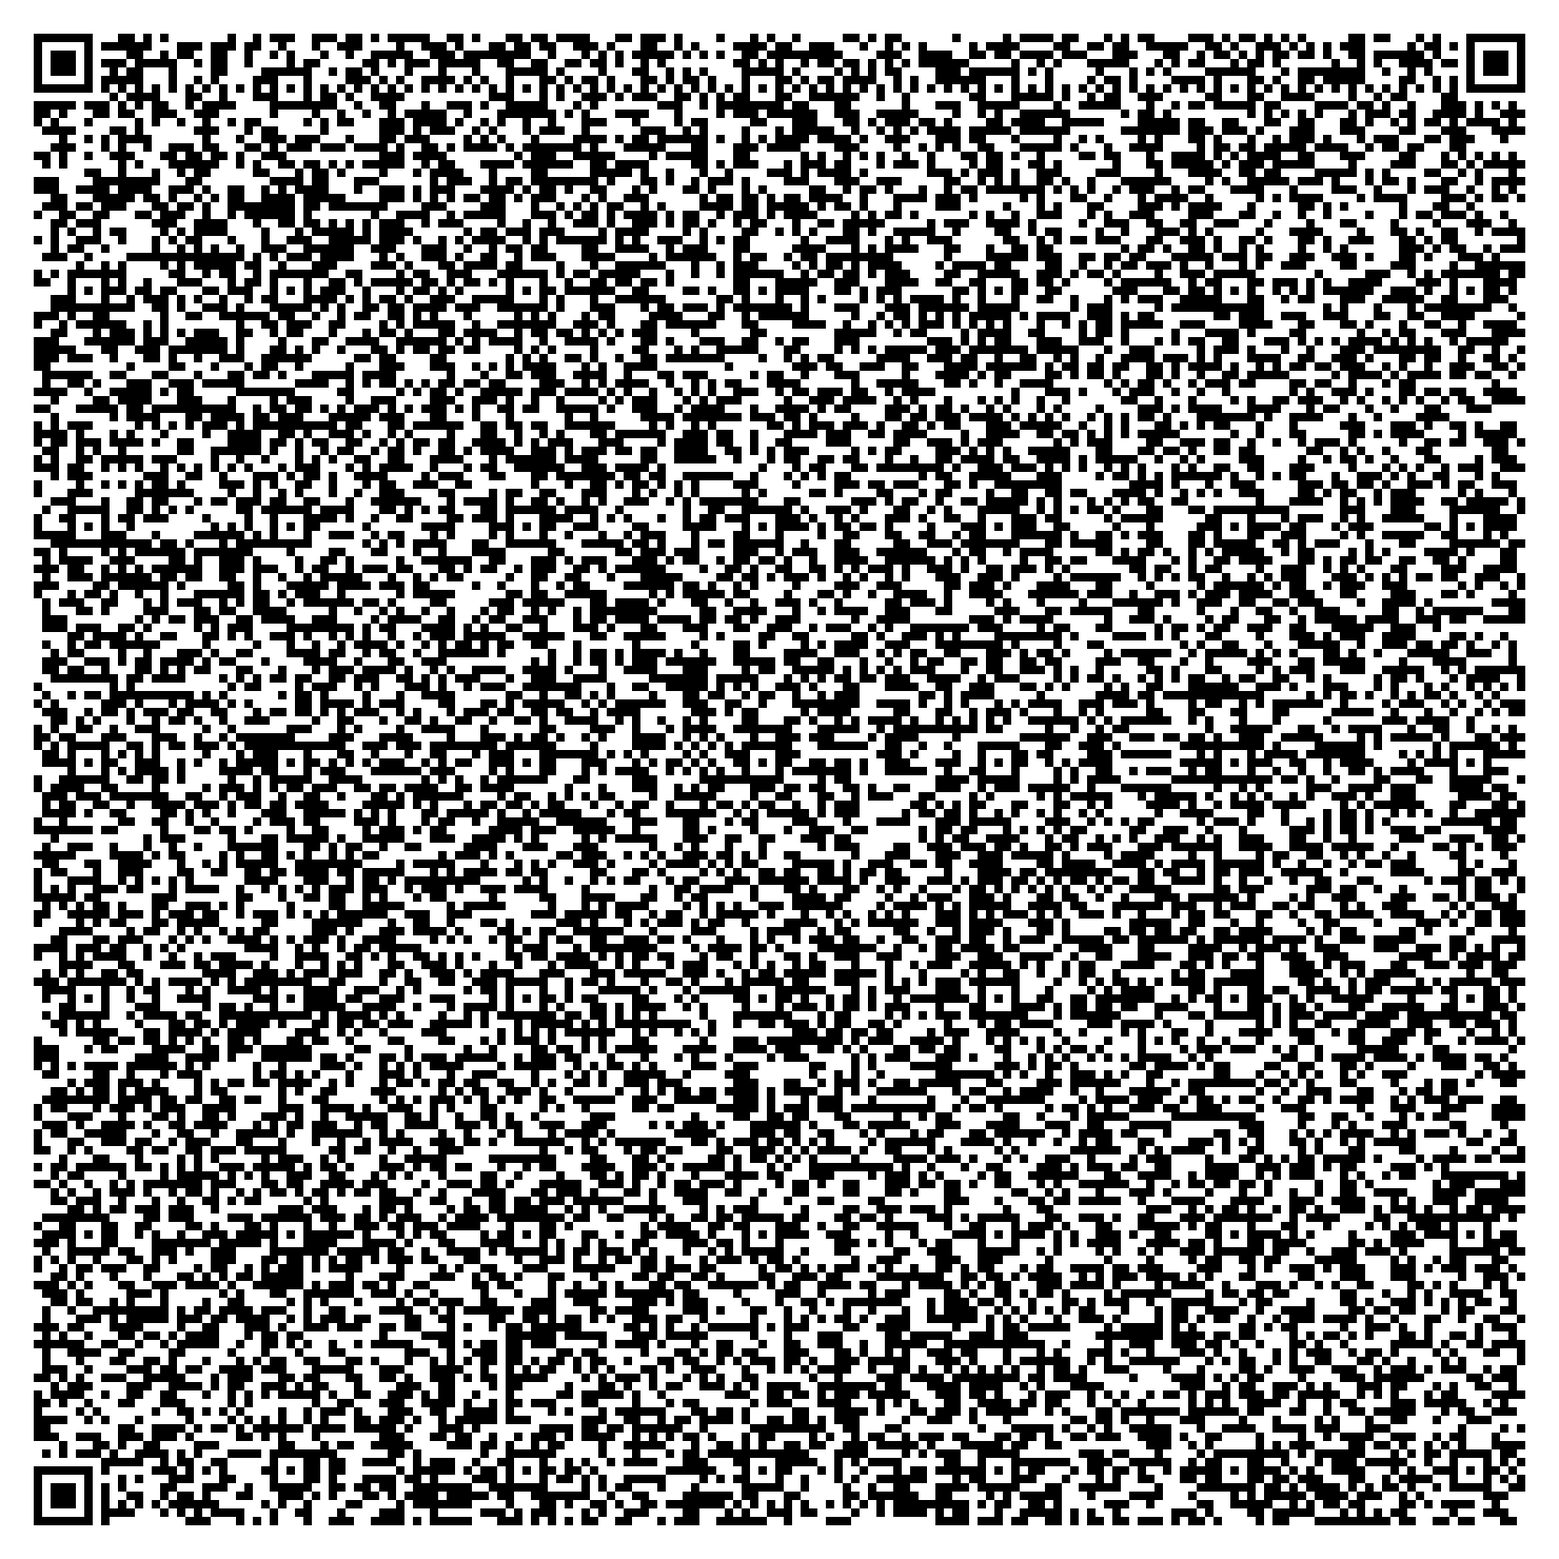
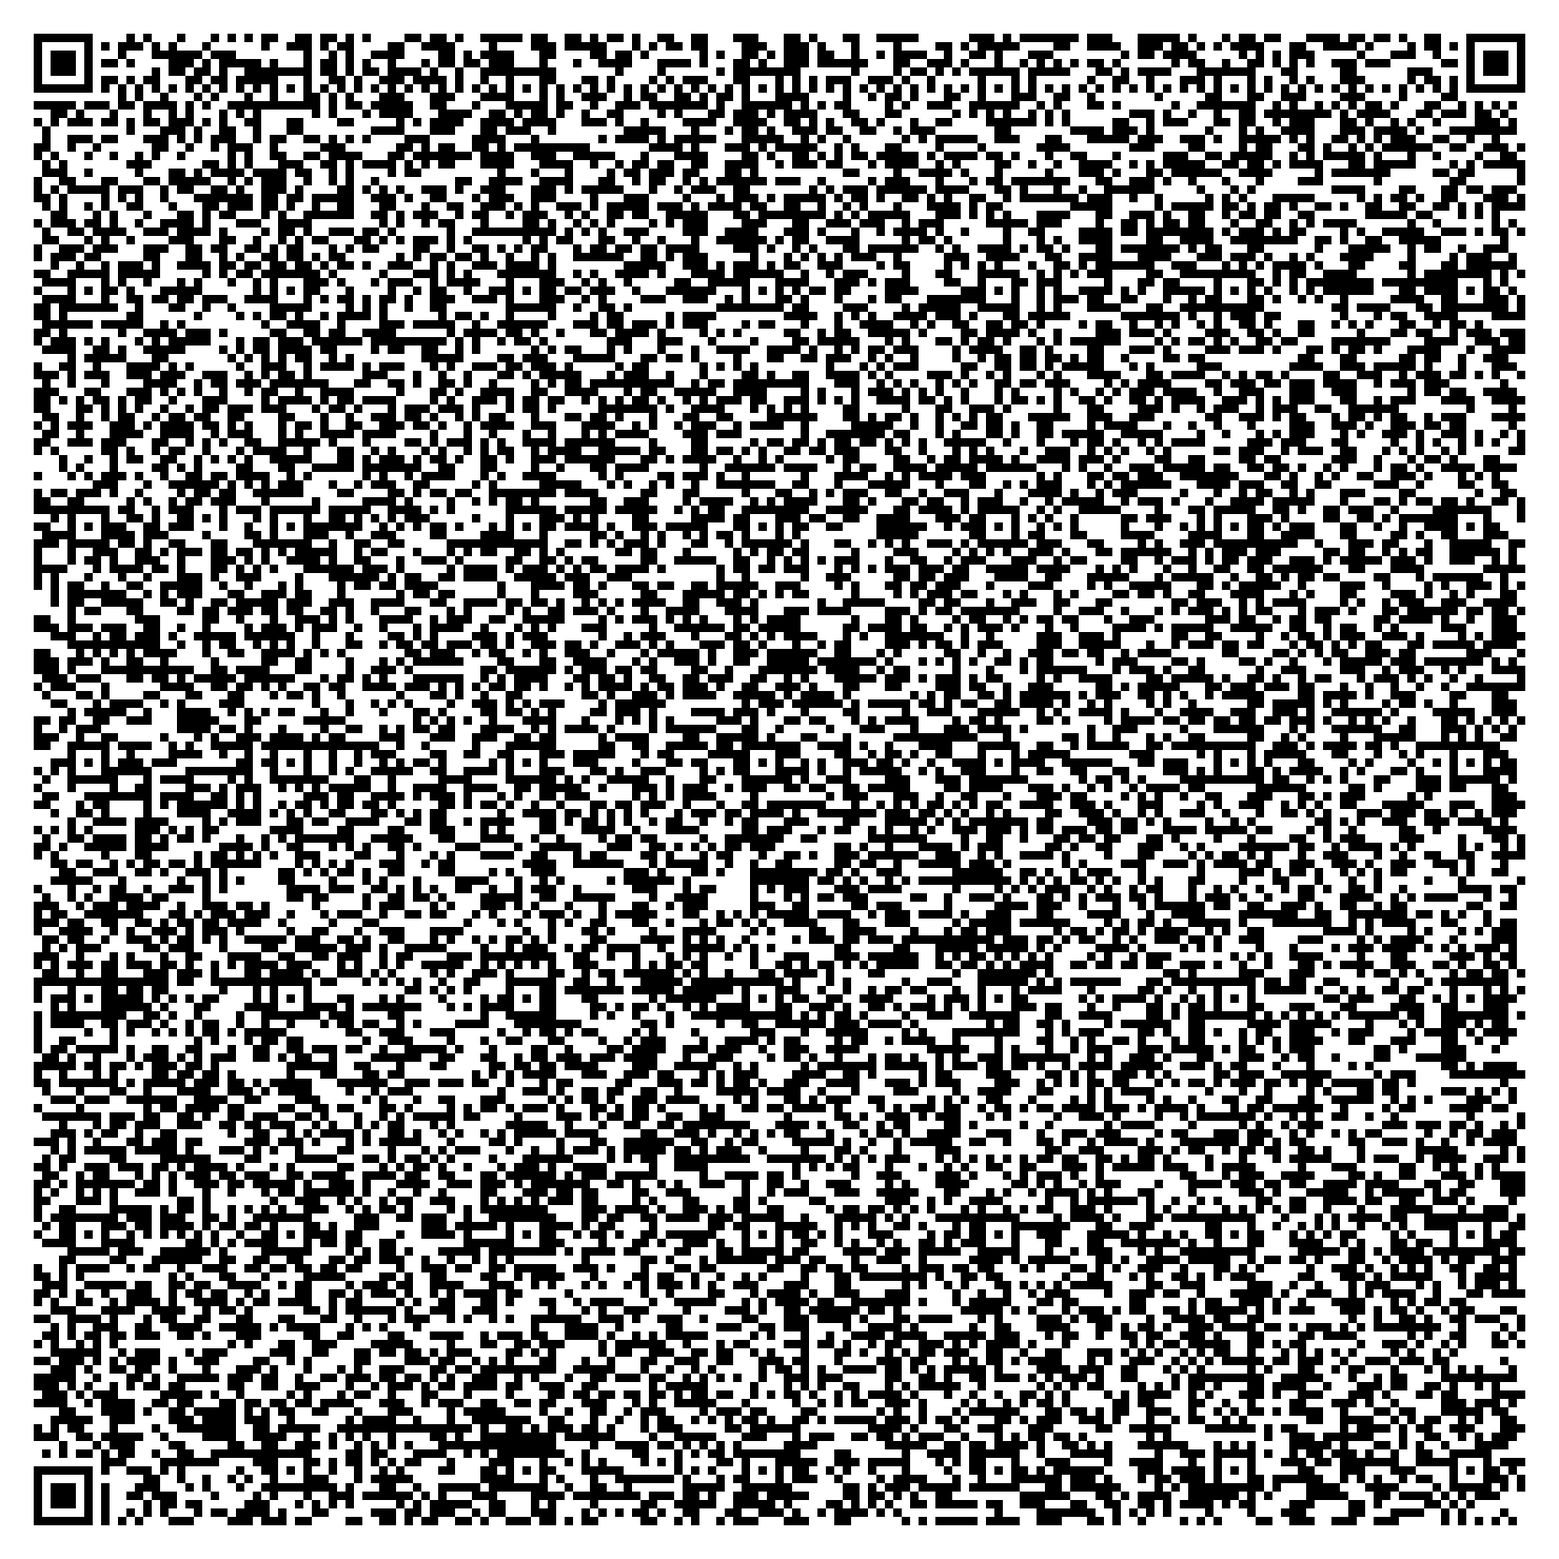
implement additional words
implement additional words and edit docs

diff --git a/about.html b/about.html
@@ -28,17 +28,17 @@
             </header>
             <article>
                 <p>
-                    <strong>qrforth</strong> is a tiny implementation of the <a href="https://en.wikipedia.org/wiki/Forth_(programming_language)">Forth</a> programming language that fits in a <a href="qrcode.html">QR code</a>. The heart of qrforth is a miniaturized <a href="https://www.rust-lang.org/">Rust</a> library compiled to <a href="https://webassembly.org/">WebAssembly</a> resulting in a ~1.3kB binary. The qrforth Rust library is responsible for the Forth stack, 11 primitive words, and API functions that allow the qrforth javascript code to easily access the state of the stack and registers. Javascript is used to initialize the webassembly module, accept user input, and define new words. The size of all of this comes to ~2.8kB, just small enough to fit in a version 40 QR code (177x177) with the lowest level error correction.
+                    <strong>qrforth</strong> is a tiny implementation of the <a href="https://en.wikipedia.org/wiki/Forth_(programming_language)">Forth</a> programming language that fits in a <a href="qrcode.html">QR code</a>. The heart of qrforth is a miniaturized <a href="https://www.rust-lang.org/">Rust</a> library compiled to <a href="https://webassembly.org/">WebAssembly</a> resulting in a ~1.3kB binary. The qrforth webassembly module is responsible for the Forth stack, primitive words, and functions that provide access to the stack and registers. Javascript is used to execute the webassembly, accept user input, and define new words. The size of all of this comes to ~2.8kB, just small enough to fit in a version 40 QR code (177x177) with the lowest level error correction. Visiting the Home page or scanning the QR code will run qrforth in your browser.
                 </p>
                 <h1>
                     How it Works
                 </h1>
                 <p>
-                    The qrforth project consists of three main parts: the wasm module(lib.rs & qrforth.wasm), the html/javascript code(qrforth.html), and the qrforth.com webpage(index.html). The wasm module and html/javascript come together and are encoded in the QR code. The qrforth.com webpage is a simple static site hosted on <a href="https://pages.github.com/">GitHub Pages</a> that serves as a landing page and decodes qrforth.<br>
+                    The qrforth project consists of three main parts: the wasm module(lib.rs), the html/javascript code(qrforth.html), and the qrforth.com webpage(index.html). The wasm module is encoded in the qrforth.html page and the whole thing is encoded in the QR code. The url in the QR code needs to point to a resource on the web so the qrforth.com webpage is a simple static site hosted on <a href="https://pages.github.com/">GitHub Pages</a> that serves as a landing page and decodes the url contained in the QR Code.<br>
                     <br>
-                    The url encoded in the QR code looks something like this <code>http://qrforth.com/#i9EKAICqqqrq/26XE5dDdph...</code> (truncated for readability). The qrforth wasm module is encoded in html/javascript page and the whole thing is compressed and encoded in the url using <a href="https://en.wikipedia.org/wiki/URI_fragment">URI fragments</a>. The qrforth.com webpage receives the URI fragment, decodes and decompresses it, and serves the resulting html as an iframe. All of this is done in the browser with no server side code. The following sections go into more detail on how each part of qrforth works.
+                    The url encoded in the QR code looks something like this <code>http://qrforth.com/#i9EKAICqqqrq/26XE5dDdph...</code> (truncated for readability, <a href="https://github.com/mattdeeds/qrforth/blob/main/url.txt">full URL here</a>). Using <a href="https://en.wikipedia.org/wiki/URI_fragment">URI fragments</a> the entire qrforth.html webpage is encoded in the URL itself. The qrforth.com webpage receives the URI fragment, decodes and decompresses it, and serves the resulting html as an iframe. All of this is done in the browser with no server side code. The following sections go into more detail on how each part of qrforth works.
                 <p>
-                    To compile our rust library to webassembly we use the <code>--target=wasm32-unknown-unknown --release</code> cargo build flags. We need to keep the resulting wasm binary as small as possible so we need to: 1) use the <code>#![no_std]</code> attribute to disable the standard library, 2) define a custom panic handler with <code>#[panic_handler]</code>, 3) statically allocate our variables to avoid brining in dlmalloc, and 4) strip and optimize our binary with the strip and lto setting in our Cargo.toml file. All of this will keep the rust compiler from adding in typically useful but sizeable code to our binary. I've linked some super helpful resources below that go into more detail on how to do this.
+                    To compile our rust library to webassembly we use the <code>--target=wasm32-unknown-unknown --release</code> cargo build flags. We need to keep the resulting wasm binary as small as possible so we need to: 1) use the <code>#![no_std]</code> attribute to disable the standard library, 2) define a custom panic handler with <code>#[panic_handler]</code>, 3) statically allocate our variables to avoid brining in dlmalloc, and 4) strip and optimize our binary with the strip and lto setting in our Cargo.toml file. All of this will keep the rust compiler from adding in typically useful but sizeable code to our wasm binary. I've linked some super helpful resources below that go into more detail on how to do this.
                 </p>
                 <ul>
                     <li><a href="https://surma.dev/things/rust-to-webassembly/">Rust to WebAssembly the hard way</a>, Surma</li>
@@ -46,7 +46,7 @@
                     <li><a href="https://darkcoding.net/software/a-very-small-rust-binary-indeed/">A very small rust binary indeed</a>, Graham King</li>
                 </ul>
                 <p>
-                    Now what we have our qrforth.wasm binary, we can encode it as a base64 string and put it in our qrforth.html page. The javascript in qrforth.html will decode the base64 string and initialize the wasm module when the browser loads the page. The qrforth.html page is now complete and the url fragment can be created by encoding the html as a base64 string and compressing it with <a href="https://github.com/google/brotli">brotli</a>. The URL fragment is then appended to the qrforth.com url and the resulting url is encoded as a <a href="/qrcode.html">QR code</a>.<br>
+                    Now what we have our qrforth.wasm binary, we can encode it as a base64 string and put it in our qrforth.html page. The javascript in qrforth.html will decode the base64 string and initialize the wasm module when the browser loads the page. The qrforth.html page is now complete and the URI fragment can be created by compressing the html with <a href="https://github.com/google/brotli">brotli</a> and encoding the result as a base64 string. The URL fragment is then appended to the qrforth.com url and the resulting url is encoded as a <a href="/qrcode.html">QR code</a>.<br>
                     <br>
                     All of these steps are automated with a build script that makes rebuilding as easy as running <code>./build.sh</code>. qrforth can also be run locally with a simple python sever and running <code>./build.sh --local</code>. More info can be found in the <a href="https://github.com/mattdeeds/qrforth">GitHub repository</a>.
                 </p>
@@ -54,8 +54,8 @@
                     Forth Implementation
                 </h1>
                 <p>
-                    The qrforth implementation of Forth is inspired by <a href="https://github.com/cesarblum/sectorforth">sectorforth</a> which is designed to fit in a 512-byte boot sector. qrforth adds a few more words for convenience but otherwise is very minimal. Don't expect qrforth to be a perfect implementation of Forth or ANS Forth compliant, there are already plenty of well designed implementations out there. The goal of qrforth is mainly just to learn more about Forth, WebAssembly, and Rust.<br>
-                    The memory for the system is arbitrarily laid out as an array of 32-bit signed integers, 8000 elements in length. The first 4000 elements reserved for the Forth stack and the second 4000 is general system memory. There is a 8-bit <code>FLAGS</code> register that is used communicating state from the wasm module to the qrforth html page. User input and output and the Forth dictionary are handled by the page's javascript. The following is a list of the 11 primitive words that make up qrforth:
+                    The qrforth implementation of Forth is designed to be very minimal and only includes a limited subset of the language. Using the words provided, more useful words can be written in qrforth. Some examples are provided <a href="/examples.html">here</a>here. Don't expect qrforth to be a perfect implementation of Forth or ANS Forth compliant, there are already plenty of well designed implementations out there. The goal of qrforth is mainly just to learn more about Forth, WebAssembly, and Rust.<br>
+                    The memory for the system is arbitrarily laid out as an array of 32-bit signed integers, 8000 elements in length. The first 4000 elements reserved for the Forth stack and the second 4000 is general system memory. There is a 8-bit <code>FLAGS</code> register that is used communicating state from the wasm module to the qrforth html page. User input and output and the Forth dictionary are handled by the page's javascript. The following is a list of the words that make up qrforth:
                     <table>
                         <thead>
                             <tr>
@@ -107,7 +107,7 @@
                             </tr>
                             <tr>
                                 <td><code>emit</code></td>
-                                <td>Print low byte of x as an ASCII character</td>
+                                <td>Print x as an ASCII character</td>
                                 <td><i>( x -- )</i></td>
                             </tr>
                             <tr>
@@ -119,6 +119,26 @@
                                 <td><code>key</code></td>
                                 <td>Read a character and push it onto the stack</td>
                                 <td><i>( -- x )</i></td>
+                            </tr>
+                            <tr>
+                                <td><code>begin</code></td>
+                                <td>Marks the start of a <strong>begin until</strong> loop</td>
+                                <td><i>( -- )</i></td>
+                            </tr>
+                            <tr>
+                                <td><code>until</code></td>
+                                <td>If x is zero, jumps to matching begin, if x is non-zero, continues execution </td>
+                                <td><i>( x -- )</i></td>
+                            </tr>
+                            <tr>
+                                <td><code>if</code></td>
+                                <td>If x is -1, continue execution within <strong>if then</strong> block.</td>
+                                <td><i>( x -- )</i></td>
+                            </tr>
+                            <tr>
+                                <td><code>then</code></td>
+                                <td>Marks the end of an <strong>if then</strong> block</td>
+                                <td><i>( -- )</i></td>
                             </tr>
                         </tbody>
                     </table>

diff --git a/unminified.js b/unminified.js
@@ -1,42 +1,37 @@
-// unminified backup of javascript code that lives in qrforth.html
-
[2 lines of base64/hex data omitted]
 wabuf = Uint8Array.from(atob(wa64), c => c.charCodeAt(0)).buffer;
 WebAssembly.compile(wabuf).then(x => {
     wasm = x;
     ins = new WebAssembly.Instance(wasm);
 });
-const term = document.getElementById('term');
-const out = document.getElementById('out');
-const input = document.getElementById('in');
-const stack = document.getElementById('stack');
+const term = document.getElementById('t');
+const out = document.getElementById('o');
+const input = document.getElementById('i');
+const stack = document.getElementById('s');
 const dict = {};
 let com = '';
+let msg = '';
+let status = '';
 input.addEventListener('keydown', function(e) {
     if ("Return"===e.key||"Enter"===e.code&&!e.shiftKey) {
         e.preventDefault();
+        msg = '';
+        status = '';
         const txt = input.value;
         input.value = '';
         com = txt.replace(/\n/g, ' ');
-        executeCommand(com.replace(/\([^)]*\)/g, ''));
-        window.scrollTo(0,document.body.scrollHeight);
+        ex(com.replace(/\([^)]*\)/g, ''));
+        stack.innerHTML = 'Stack:'
+        for (let i = 0; i < ins.exports.top(); i++) {
+            stack.innerHTML += ' ' + ins.exports.stack(i);
+        }
+        stack.innerHTML += ' <- top'
+        if (status === '') {status = 'ok';}
+        out.innerHTML = `${com}` + '\n' + `${msg}` + ' ' + `${status}` + '\n\n' + out.innerHTML;
     }
 });
 
-function output(text) {
-    out.innerHTML += text;
-    term.scrollTop = term.scrollHeight;
-}
-
-function redrawStack() {
-    const out = [];
-    for (let i = 0; i < ins.exports.top(); i++) {
-        out.push(ins.exports.stack(i));
-    }
-    stack.innerHTML = 'Stack: [' + `${out}` + '] <- Top';
-}
-
-function defineWord(tokens, mark) {
+function define(tokens, mark) {
     // take tokens up to first ';'
     let word = [];
     for (let i = mark; i < tokens.length; i++) {
@@ -55,28 +50,45 @@ function defineWord(tokens, mark) {
     return wordlen
 }
 
-function executeCommand(command) {
+function ex(command) {
     const tokens = command.split(/\s+/);
     let display = true;
-    let msg = '';
-    let status = '';
-    let i = 0
-    let wordlen = 0
+    let i = 0;
+    let wordlen = 0;
+    let loopstart = 0;
+    let skip = false;
     for (i; i < tokens.length; i++) {
-        
+
         const token = tokens[i];
 
-        if (token === '') {
+        if (skip) {
+            if (token === 'then') {
+                skip = false;
+            } 
             continue;
-        } else if (token === 'cr') {
-            output('\n');
+        }
+
+        if (token === ''||token === 'then') {
+            continue;
         } else if (token in dict) {
-            executeCommand(dict[token]);
+            ex(dict[token]);
             display = false;
+        } else if (token === 'until') {
+            if (parseInt(ins.exports.stack(ins.exports.top() - 1)) === 0) {
+                i = loopstart;
+            }
+            ins.exports.forth( 1685221232 );
+        } else if (token === 'begin') {
+            loopstart = i;
+        } else if (token === 'if') {
+            if (parseInt(ins.exports.stack(ins.exports.top() - 1)) === 0) {
+                skip = true;
+            } 
+            ins.exports.forth( 1685221232 );
         } else if (!isNaN(token)) {
             ins.exports.forth( 1886745448, parseInt(token) );
         } else if (token === ':') {
-            wordlen = defineWord(tokens, wordlen);
+            wordlen = define(tokens, wordlen);
             i = wordlen - 1;
         } else {
             let num = 0;
@@ -87,10 +99,10 @@ function executeCommand(command) {
             ins.exports.forth( num );
         }
         let flags = ins.exports.flags();
-        if (flags & 1) {msg += 'Overflow';}
-        else if (flags & 2) {msg += 'Underflow';}
-        else if (flags & 4) {msg += String.fromCharCode(ins.exports.stack(ins.exports.top()));}
-        else if (flags & 8) {msg += ins.exports.stack(ins.exports.top());}
+        if (flags & 1) {msg += ' Overflow';}
+        else if (flags & 2) {msg += ' Underflow';}
+        else if (flags & 4) {msg = msg + String.fromCharCode(ins.exports.stack(ins.exports.top()));}
+        else if (flags & 8) {msg = msg + ins.exports.stack(ins.exports.top());}
         else if (flags & 16) {
             // read input and push to stack
             const input = prompt('Enter input');
@@ -102,8 +114,5 @@ function executeCommand(command) {
         }
         if (flags & 32) {status = `${token}` + ' ?';}
         ins.exports.zflag();
-    }
-    if (status === '') {status = 'ok';}
-    if (display) {output(`${com}` + ' ' + `${msg}` + ' ' + `${status}` + '\n');}
-    redrawStack();
+    } 
 }

diff --git a/qrforth.html b/qrforth.html
@@ -1,3 +1,3 @@
-<!DOCTYPE html><body><div id="term"><pre id="out"></pre><hr><pre style="word-wrap: normal;" id="stack"></pre><textarea placeholder="Enter your forth code here" rows="5" style="width: 100%;" id="in" autofocus></textarea></div><script>
[1 lines of base64/hex data omitted]
+<!DOCTYPE html><body><div id="t"><pre id="s"></pre><textarea placeholder="Enter Forth here"rows="5"style="width:100%;"id="i"autofocus></textarea></div><pre id="o"></pre><script>
[1 lines of base64/hex data omitted]
 </script></body></html>

diff --git a/examples.html b/examples.html
@@ -27,24 +27,54 @@
                 </nav>
             </header>
             <article>
+                <h1>
+                    Try out these examples:
+                </h1>
                 <p>
-                    <strong>Try out these examples:</strong>
+                    Examples are a work in progress...
                 </p>
+                <h2>
+                    Count 1 to 10:
+                </h2>
                 <p>
-                    Work in progress...
+                    <code>
+                        : dup ( x -- x x ) sp@ @ ; 
+                        <br>
+                        : invert ( x -- !x ) dup nand ;
+                        <br>
+                        : negate ( x -- -x ) invert 1 + ;
+                        <br>
+                        : - ( x y -- x-y ) negate + ;
+                        <br>
+                        : = ( x y -- flag ) - 0= ;
+                        <br>
+                        : count-ten 0 begin 1 + dup dup . 32 emit 10 = until ;
+                        <br>
+                        count-ten
+                    </code>
                 </p>
-                <!-- <p>
-                    <small>Input each line of an example one at a time for a better idea of how the program works.</small>
-                </p> -->
-                <!-- <h5>
-                    Hello World
-                </h5>
-                <h5>
-                    Count Primes
-                </h5>
-                <h5>
-                    FizzBuzz
-                </h5> -->
+                <h2>
+                    Count 1 to 10, only ouput 5:
+                </h2>
+                <p>
+                    <code>
+                        : dup ( x -- x x ) sp@ @ ; 
+                        <br>
+                        : invert ( x -- !x ) dup nand ;
+                        <br>
+                        : negate ( x -- -x ) invert 1 + ;
+                        <br>
+                        : - ( x y -- x-y ) negate + ;
+                        <br>
+                        : = ( x y -- flag ) - 0= ;
+                        <br>
+                        : is5? 5 = if dup . then ;
+                        <br>
+                        : count-ten 0 begin 1 + dup dup is5? 10 = until ;
+                        <br>
+                        count-ten
+                    </code>
+                </p>
             </article>
             <footer>
                 <nav>
